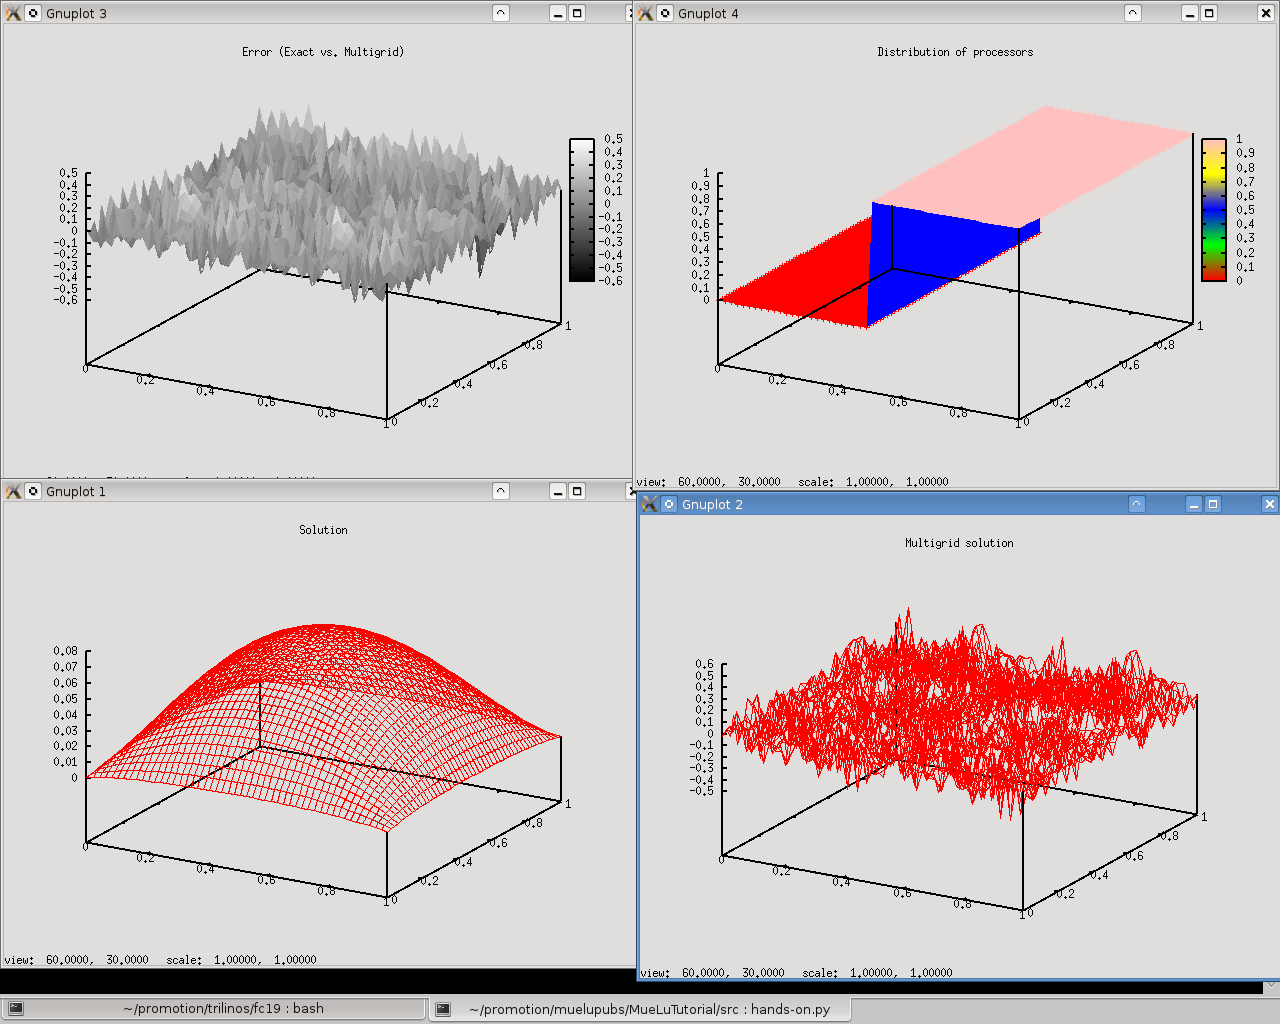
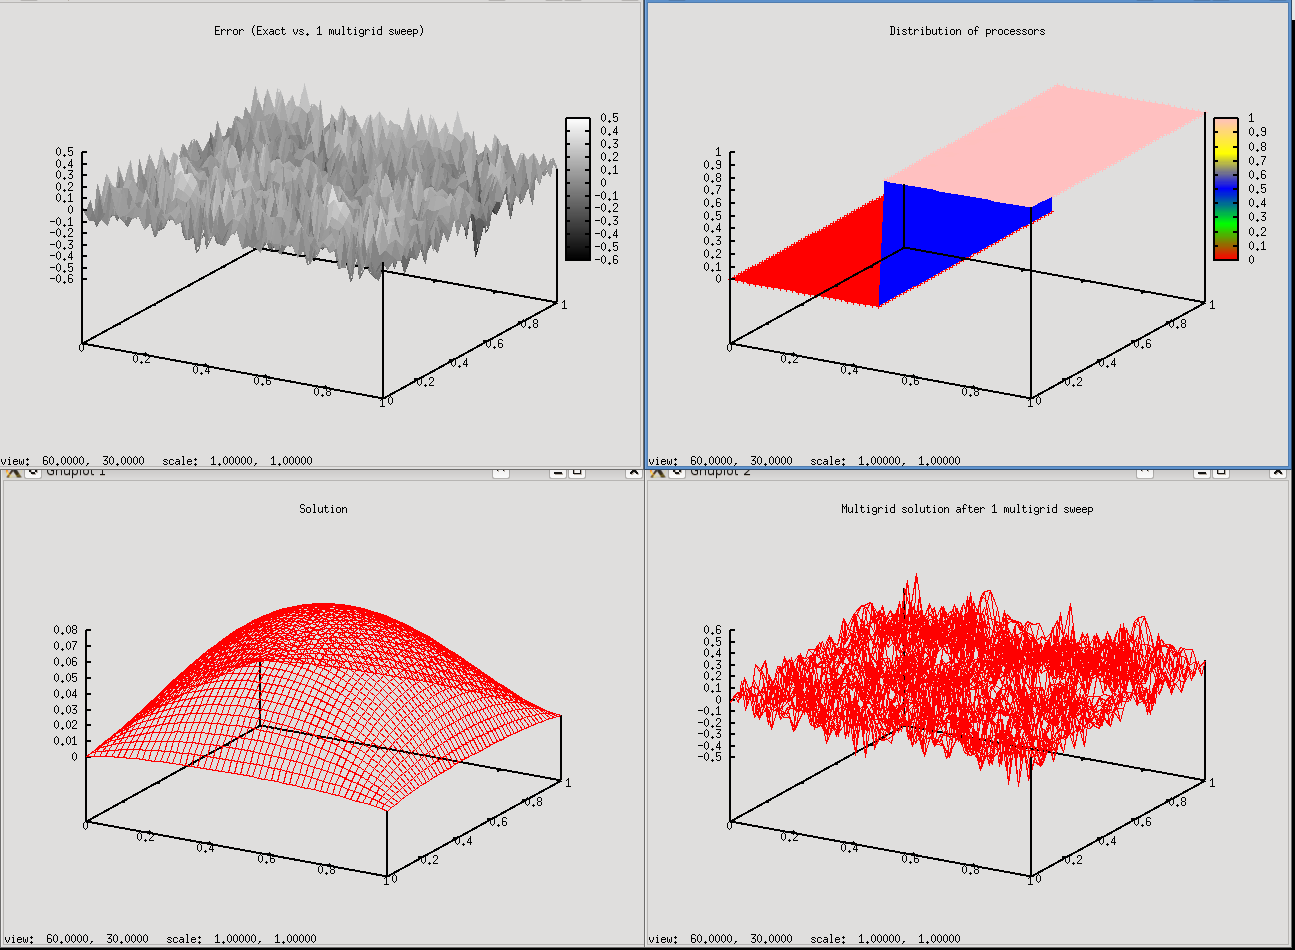
MueLu: minor improvements in tutorial.
allow to plot history of residual norm over Krylov iterations.

diff --git a/packages/muelu/doc/Tutorial/src/hands-on.py b/packages/muelu/doc/Tutorial/src/hands-on.py
@@ -74,6 +74,7 @@ class ProblemHandler():
   
   def __init__(self):
     self.problem    = "Laplace 2D"
+    self.solver     = "cg"
     self.executable = "MueLu_tutorial_laplace2d.exe"
     self.meshx      = 50
     self.meshy      = 50
@@ -85,6 +86,7 @@ class ProblemHandler():
     self.proc2 = subprocess.Popen(['gnuplot','-p'], shell=True, stdin=subprocess.PIPE, )
     self.proc3 = subprocess.Popen(['gnuplot','-p'], shell=True, stdin=subprocess.PIPE, )
     self.proc4 = subprocess.Popen(['gnuplot','-p'], shell=True, stdin=subprocess.PIPE, )
+    self.proc5 = subprocess.Popen(['gnuplot','-p'], shell=True, stdin=subprocess.PIPE, )
     
     self.isDirty = True                   # flag to store, whether problem has to be rerun or not
 
@@ -107,6 +109,7 @@ class ProblemHandler():
   def doLaplace2Dn(self):
     self.problem    = "Laplace 2D"
     self.executable = "MueLu_tutorial_laplace2d.exe"
+    self.solver     = "cg"
     self.meshx      = raw_input("Mesh: Elements in x direction = ")
     self.meshy      = raw_input("Mesh: Elements in y direction = ")
     self.runLaplaceProblem()
@@ -114,6 +117,7 @@ class ProblemHandler():
   def doLaplace2D50(self):
     self.problem    = "Laplace 2D"
     self.executable = "MueLu_tutorial_laplace2d.exe"
+    self.solver     = "cg"
     self.meshx      = 50
     self.meshy      = 50 
     self.runLaplaceProblem()
@@ -121,6 +125,7 @@ class ProblemHandler():
   def doRecirc2Dn(self):
     self.problem    = "Recirc 2D"
     self.executable = "MueLu_tutorial_recirc2d.exe"
+    self.solver     = "gmres"
     self.meshx      = raw_input("Mesh: Elements in x direction = ")
     self.meshy      = raw_input("Mesh: Elements in y direction = ")
     self.runLaplaceProblem() # we can use the same routine as for Laplace...
@@ -128,6 +133,7 @@ class ProblemHandler():
   def doRecirc2D50(self):
     self.problem    = "Recirc 2D"
     self.executable = "MueLu_tutorial_recirc2d.exe"
+    self.solver     = "gmres"
     self.meshx      = 50
     self.meshy      = 50 
     self.runLaplaceProblem() # we can use the same routine as for Laplace...    
@@ -169,8 +175,8 @@ class ProblemHandler():
   def printActionMenu(self):
     #options = ['Rerun example', 'Show screen output', 'Change solver', 'Change processors', 'Exit']
     #callbacks = [self.runExample,self.printScreenOutput,self.changeSolver,self.changeProcs,self.doExitProgram]
-    options = ['Rerun simulation', 'Show screen output', 'Change solver', 'Open xml file', 'Change procs', 'Change MG sweeps','Plot solution','Postprocess aggregates', 'Exit']
-    callbacks = [self.runExample,self.printScreenOutput,self.changeSolver,self.openXMLfile,self.changeProcs, self.changeMGsweeps,self.plotSolution, self.postprocessAggregates, self.doExitProgram]
+    options = ['Rerun simulation', 'Show screen output', 'Change solver', 'Open xml file', 'Change procs', 'Change MG sweeps','Plot solution','Plot residual norm over ' + self.solver + ' solver iterations','Postprocess aggregates', 'Exit']
+    callbacks = [self.runExample,self.printScreenOutput,self.changeSolver,self.openXMLfile,self.changeProcs, self.changeMGsweeps,self.plotSolution,self.doPlotResidual, self.postprocessAggregates, self.doExitProgram]
     while True:
       clearWindow()    
       self.printSettings()
@@ -219,7 +225,10 @@ class ProblemHandler():
 
     #proc2 = subprocess.Popen(['gnuplot','-p'], shell=True, stdin=subprocess.PIPE, )
     self.proc2.stdin.write("set term x11 2\n") #wxt
-    self.proc2.stdin.write("set title \"Multigrid solution\"\n")    
+    if (self.mgsweeps==1):
+      self.proc2.stdin.write("set title \"Multigrid solution after " + str(self.mgsweeps) + " multigrid sweep\"\n")    
+    else:
+      self.proc2.stdin.write("set title \"Multigrid solution after " + str(self.mgsweeps) + " multigrid sweeps\"\n")    	
     self.proc2.stdin.write("set dgrid3d " + str(self.meshy) + "," + str(self.meshx) + "\n")
     self.proc2.stdin.write("set style data lines\n")
     self.proc2.stdin.write("set nolabel\n")
@@ -231,7 +240,10 @@ class ProblemHandler():
     
     #proc3 = subprocess.Popen(['gnuplot','-p'], shell=True, stdin=subprocess.PIPE, )
     self.proc3.stdin.write("set term x11 3\n")
-    self.proc3.stdin.write("set title \"Error (Exact vs. Multigrid)\"\n")    
+    if (self.mgsweeps==1):
+      self.proc3.stdin.write("set title \"Error (Exact vs. " + str(self.mgsweeps) + " multigrid sweep)\"\n")
+    else: 
+      self.proc3.stdin.write("set title \"Error (Exact vs. " + str(self.mgsweeps) + " multigrid sweeps)\"\n")    
     self.proc3.stdin.write("set dgrid3d " + str(self.meshy) + "," + str(self.meshx) + "\n")
     self.proc3.stdin.write("set style data lines\n")
     self.proc3.stdin.write("set palette model RGB defined ( 0 'black', 1 'white')\n")
@@ -335,7 +347,24 @@ class ProblemHandler():
     while not is_number(str(self.mgsweeps)):
       self.mgsweeps = raw_input("Number of Multigrid sweeps: ")
     self.isDirty = True
-		       
+	
+  def doPlotResidual(self):
+    
+    # prepare residual output file
+    cmd = "grep iter: output.log > output.res"
+    runCommand(cmd)
+    
+    self.proc5.stdin.write("set term x11 1\n")
+    self.proc5.stdin.write("set title \"Residual norm over " + str(self.solver) + " iterations\"\n")
+    self.proc5.stdin.write("set style data lines\n")
+    self.proc5.stdin.write("set xlabel \"# iterations\"\n")
+    self.proc5.stdin.write("set ylabel \"Relative residual\"\n")
+    self.proc5.stdin.write("set autoscale\n")
+    self.proc5.stdin.write("set logscale y\n")
+    printcmd = "plot \"output.res\" using 5 w linespoints title \"" + str(self.xmlFileName) + "\"\n"
+    self.proc5.stdin.write(printcmd)   
+    self.proc5.stdin.flush()	
+    
   def printMainMenu(self):
     clearWindow()
     self.printSettings()
@@ -538,7 +567,7 @@ class MueLu_XMLChallengeMode():
     cmd = "grep iter: reference.log > reference.res"
     runCommand(cmd)
     self.proc1.stdin.write("set term x11 1\n")
-    self.proc1.stdin.write("set title \"Residual of " + str(self.solver) + " method\"\n")
+    self.proc1.stdin.write("set title \"Residual norm over " + str(self.solver) + " iterations\"\n")
     self.proc1.stdin.write("set style data lines\n")
     self.proc1.stdin.write("set xlabel \"# iterations\"\n")
     self.proc1.stdin.write("set ylabel \"Relative residual\"\n")
